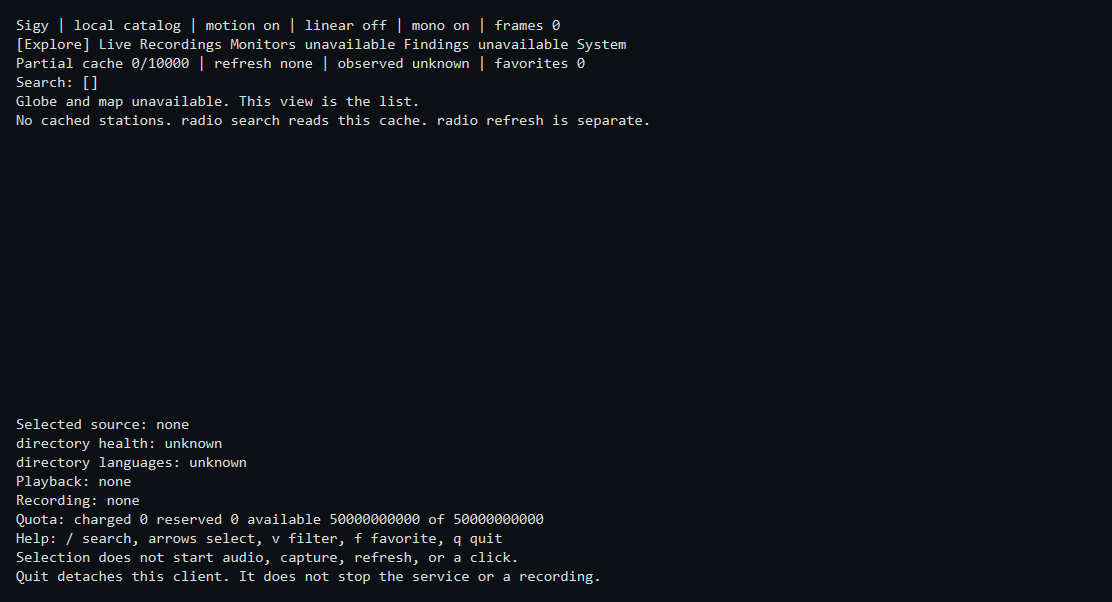
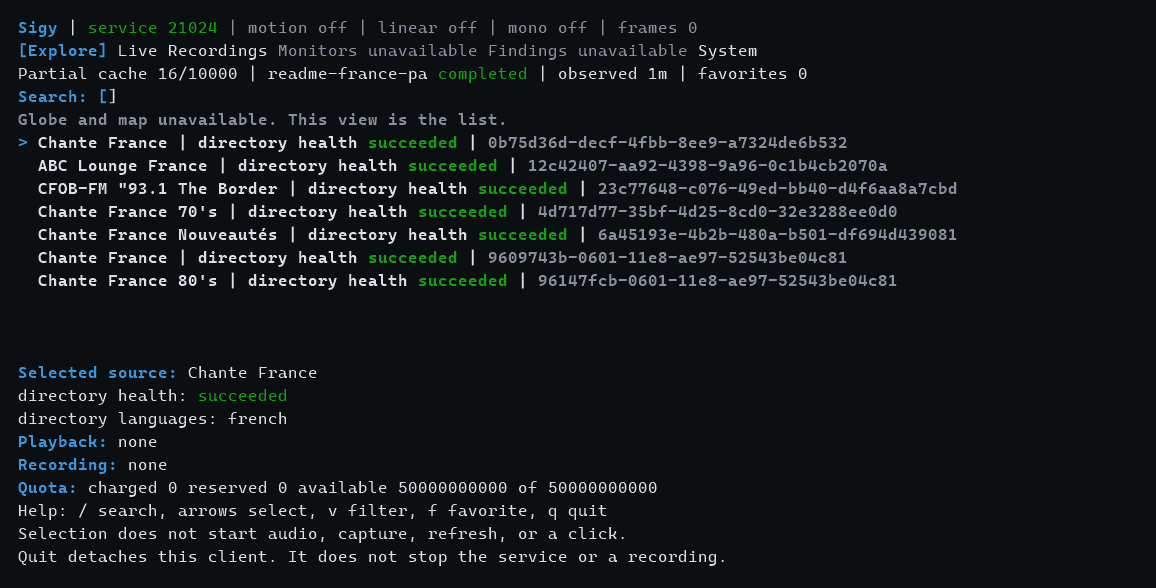
Show populated explorer in README

Changed region(s): [[0.0, 0.0306, 0.8255, 0.4898], [0.0, 0.6122, 0.5809, 0.9796], [0.5504, 0.9184, 0.6115, 0.9796]]

diff --git a/docs/development/progress.md b/docs/development/progress.md
@@ -10,7 +10,7 @@ The user confirmed the existing multilingual survey, requested Radeon 780M accel
 
 The user chose to keep Sigy on 2026-09-21; naming exploration is deferred. An operation is not a release. Local verification is `cargo verify` and `cargo verify-media` through `sigy-xtask`. Earlier notes that name `scripts/verify.ps1` describe runs completed before that change.
 
-The public README now gives a bounded product preview, two labeled screenshots, source-install commands, a first-use path, update commands, and links to detailed guidance. The [install guide](../install.md) records prerequisites and platform limits. On Windows, both checked-in installer scripts passed syntax checks and isolated checkout-path invocation with a stub Cargo. A real `cargo install --path crates/sigy --locked --force` completed into an isolated root; that binary passed version/help, initialized a fresh library, ran `doctor`, and started, reported, and stopped its service. The GitHub one-liners, actual macOS/Linux execution, and OS startup are not qualified by those checks.
+The public README now gives a bounded product preview, two labeled screenshots, source-install commands, a first-use path, update commands, and links to detailed guidance. Its explorer image renders the current application with one real, bounded 16-station directory cache page; the directory fields are provider metadata, and no stream, click, playback, or recording was started for the capture. The [install guide](../install.md) records prerequisites and platform limits. On Windows, both checked-in installer scripts passed syntax checks and isolated checkout-path invocation with a stub Cargo. A real `cargo install --path crates/sigy --locked --force` completed into an isolated root; that binary passed version/help, initialized a fresh library, ran `doctor`, and started, reported, and stopped its service. The GitHub one-liners, actual macOS/Linux execution, and OS startup are not qualified by those checks.
 
 An independent installer review found and corrected fetch-status, checkout-path, source-identity, and Windows update-helper failures. The scripts now refuse a changed or different-origin managed tree before fetching, preserve a clean commit identity, and do not claim one for a dirty local checkout. `sigy update` prefers the running binary's embedded commit to an older global marker. A Windows PowerShell 5.1 and Git for Windows shell harness passed 16 local Git/stub-Cargo and synthetic wrapper cases, including relative and bracketed paths, refusal before Cargo, failed Cargo, and download status propagation. The Windows helper's missing-checkout regression test and `cargo verify` passed. These tests do not qualify a fresh Rustup bootstrap, actual macOS/Linux installs, or a tagged release.
 

diff --git a/README.md b/README.md
@@ -12,9 +12,9 @@ Sigy is a local-first place to explore radio and podcasts, keep recordings, and 
 
 ## Preview
 
-![Sigy list explorer with an empty local catalog on Windows](docs/images/tui.png)
+![Sigy list explorer with a selected station from one directory page](docs/images/tui.png)
 
-The current list explorer on Windows, before a directory refresh. It shows the empty state honestly; the globe and map are not implemented. Selecting a station does not start playback, capture, refresh, or a directory click.
+Rendered current explorer with one 16-station Radio Browser cache page. Directory health and languages are provider metadata; no stream is playing or recording. The globe and map are not implemented. Selecting a station does not start playback, capture, refresh, or a directory click.
 
 ![Current Sigy command-line help on Windows](docs/images/cli.png)
 
